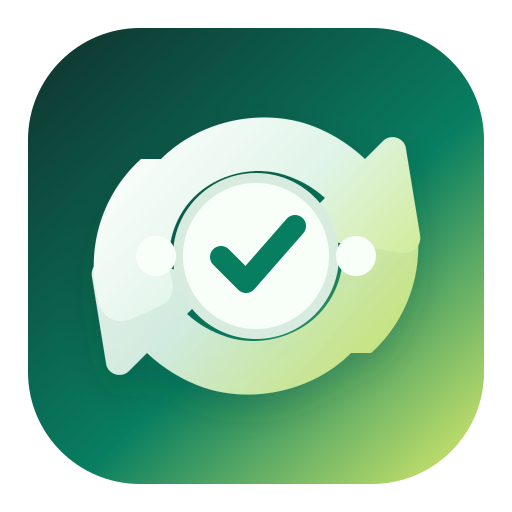
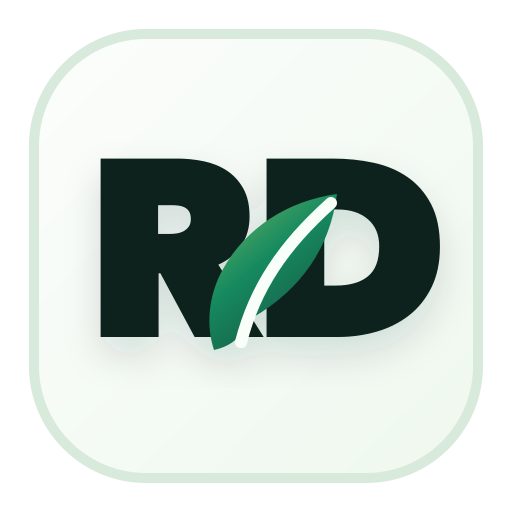
style: update ReDist brand identity

diff --git a/apps/web/src/app/globals.css b/apps/web/src/app/globals.css
@@ -79,6 +79,23 @@
   object-fit: contain;
 }
 
+.mkt-brand img.mkt-brand-wordmark {
+  width: clamp(130px, 14vw, 185px);
+  height: auto;
+  max-height: 58px;
+}
+
+.visually-hidden {
+  position: absolute;
+  width: 1px;
+  height: 1px;
+  padding: 0;
+  overflow: hidden;
+  clip: rect(0, 0, 0, 0);
+  white-space: nowrap;
+  border: 0;
+}
+
 .mkt-nav {
   display: flex;
   justify-content: center;

diff --git a/apps/web/src/app/components/marketing.tsx b/apps/web/src/app/components/marketing.tsx
@@ -170,8 +170,8 @@ export function MarketingHeader() {
   return (
     <header className="mkt-header">
       <a className="mkt-brand" href="/" aria-label="ReDist home">
-        <img src="/brand/redistribut-mark.svg" alt="" />
-        <span>ReDist</span>
+        <img className="mkt-brand-wordmark" src="/brand/redistribut-wordmark-header.svg" alt="" />
+        <span className="visually-hidden">ReDist</span>
       </a>
       <nav className="mkt-nav" aria-label="Primary navigation">
         {siteNav.slice(1).map((item) => (
@@ -191,8 +191,8 @@ export function MarketingFooter() {
     <footer className="mkt-footer">
       <div>
         <a className="mkt-brand" href="/" aria-label="ReDist home">
-          <img src="/brand/redistribut-mark.svg" alt="" />
-          <span>ReDist</span>
+          <img className="mkt-brand-wordmark" src="/brand/redistribut-wordmark-header.svg" alt="" />
+          <span className="visually-hidden">ReDist</span>
         </a>
         <p>UAE-first redistribution management for verified organizations. Founder-guided pilot preparation is underway.</p>
       </div>

diff --git a/docs/REDIST_LOGO_OPTIONS.md b/docs/REDIST_LOGO_OPTIONS.md
@@ -1,0 +1,53 @@
+# ReDist Logo Options
+
+Date: 2026-06-22  
+Status: Final founder-approved brand direction selected  
+Reference direction: Leaf-in-D concept from founder-provided image, refined for ReDist brand use
+
+## Goal
+
+Create a stronger ReDist identity that feels like a real UAE redistribution brand, not only an internal pilot tool. The options keep the brand readable while making the idea clearer: surplus moves from one organization to another through a trusted, verified, impact-aware workflow.
+
+## Options
+
+| Option | File | Direction | Best Use |
+| --- | --- | --- | --- |
+| 01 | `apps/web/public/brand/options/redistribut-logo-option-01-leaf-d.svg` | Leaf inside the D, closest to the reference image | Public website, pitch decks, simple brand recognition |
+| 02 | `apps/web/public/brand/options/redistribut-logo-option-02-circular-handover.svg` | Circular handover with verification check | Product/app identity, certificate trust, platform badge |
+| 03 | `apps/web/public/brand/options/redistribut-logo-option-03-verified-bridge.svg` | Supplier-to-recipient bridge | Enterprise sales, B2B workflow explanation |
+| 04 | `apps/web/public/brand/options/redistribut-logo-option-04-impact-sprout.svg` | Sprout and circular movement | ESG, sustainability, impact storytelling |
+| 05 | `apps/web/public/brand/options/redistribut-logo-option-05-shield-loop.svg` | Shield, loop, and check | Trust, verification, governance, certificates |
+| 06 | `apps/web/public/brand/options/redistribut-logo-option-06-merged-dr.svg` | Merged hidden DR exploration | Rejected: letters were not clear enough |
+| 07 | `apps/web/public/brand/options/redistribut-logo-option-07-clear-merged-rd.svg` | Clearer merged RD exploration | Rejected: too heavy and less readable than the final monogram |
+
+## Recommendation
+
+Final approved direction: **Clear RD monogram with leaf accent**.
+
+Why:
+
+- It matches the founder-provided direction.
+- It keeps the `R` and `D` immediately readable.
+- It communicates sustainability without becoming too technical.
+- It works as an app icon, favicon, brand mark, document badge, and outreach asset.
+
+Approved live assets:
+
+- `apps/web/public/brand/redistribut-mark.svg`
+- `apps/web/public/brand/redistribut-mark.png`
+- `apps/web/public/brand/redistribut-wordmark.svg`
+- `apps/web/public/brand/redistribut-wordmark.png`
+- `apps/web/public/brand/redistribut-wordmark-header.svg`
+
+## Suggested Brand System
+
+Use a two-part identity:
+
+1. Public wordmark: readable `ReDist` with a subtle leaf accent in the `D`.
+2. Product/app mark: clear `RD` monogram with leaf accent.
+
+This gives ReDist a human, attractive public identity while keeping a serious operational trust mark for the platform.
+
+## Founder Decision
+
+Founder accepted the clear `RD` direction after rejecting the hidden/merged-letter explorations because the letters were not recognizable enough. The live mark should prioritize clarity over abstraction.